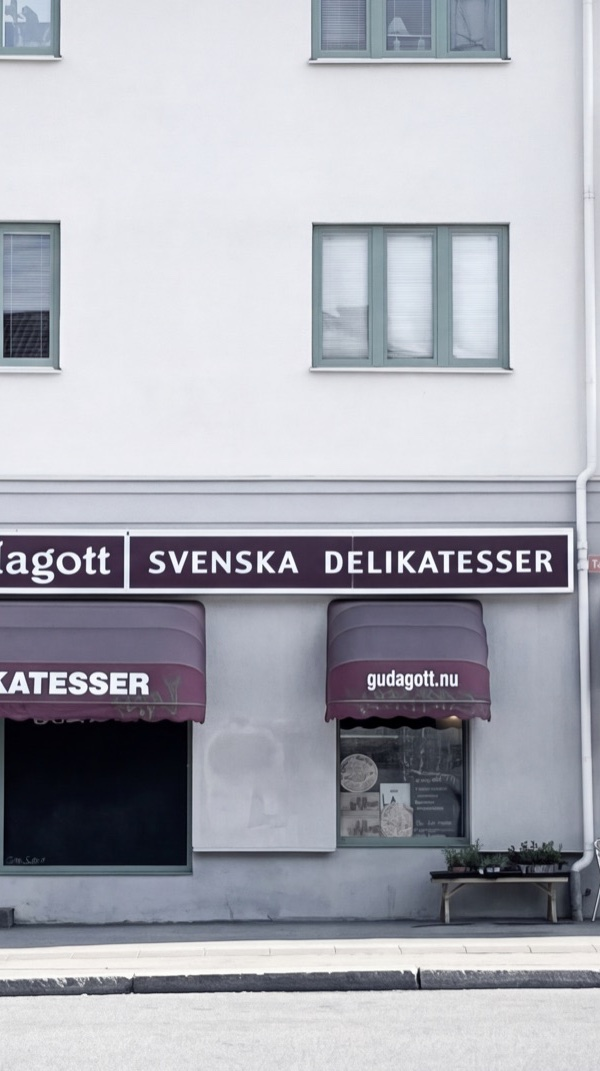
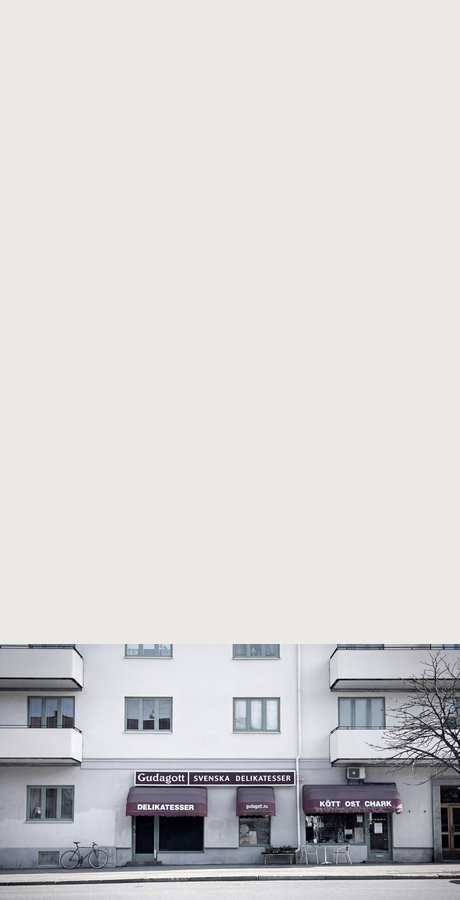
fix: portrait mobile hero (460x900) shows full Gudagott sign at correct width

diff --git a/app/globals.css b/app/globals.css
@@ -514,9 +514,9 @@ body {
     height: 100svh !important;
   }
   .hero-bg {
-    background-image: url('/exterior-new.jpg') !important;
+    background-image: url('/exterior-mobile.jpg') !important;
     background-size: cover !important;
-    background-position: 48% center !important; /* full skylt synlig */
+    background-position: center 65% !important; /* skylt + markiser i fokus */
   }
 
   /* ── Om Oss: horisontellt svep-bildspel ── */

diff --git a/scripts/make_mobile_hero.py b/scripts/make_mobile_hero.py
@@ -1,0 +1,45 @@
+#!/usr/bin/env python3
+"""
+Skapar exterior-mobile.jpg:
+- Visar hela byggnadsbredden (full sign synlig)
+- Portrait-format (460×900px) för mobil viewport
+- Byggnadsvägg-färg (#e8e6e1) som bakgrund
+"""
+from PIL import Image
+
+SRC = "public/exterior-new.jpg"
+DST = "public/exterior-mobile.jpg"
+TARGET_W = 460    # lite bredare än 390px för säkerhetsmarginal
+TARGET_H = 900    # portrait, täcker 100svh på de flesta mobiler
+BG_COLOR = (235, 233, 229)  # byggnadens ljusgrå/krämvit väggfärg
+
+img = Image.open(SRC)
+orig_w, orig_h = img.size
+print(f"Original: {orig_w}x{orig_h}")
+
+# Skala hela bilden till TARGET_W bredd (visar HELA skyltens bredd)
+scale = TARGET_W / orig_w
+new_w = TARGET_W
+new_h = int(orig_h * scale)
+print(f"Skalad: {new_w}x{new_h}")
+
+resized = img.resize((new_w, new_h), Image.LANCZOS)
+
+# Skapa portrait-canvas med väggfärg
+canvas = Image.new("RGB", (TARGET_W, TARGET_H), BG_COLOR)
+
+# Placera byggnaden i nedre 2/3 del av canvasen (skylt och markiser syns centralt)
+paste_y = TARGET_H - new_h  # justera nedre kant mot botten
+if paste_y < 0:
+    # Bild är taller än canvas — croppa från nedre delen (inkl. gatan)
+    crop_top = (-paste_y) // 3   # ta lite från toppen (himmel)
+    resized = resized.crop((0, crop_top, new_w, new_h))
+    paste_y = TARGET_H - (new_h - crop_top)
+
+canvas.paste(resized, (0, max(0, paste_y)))
+canvas.save(DST, "JPEG", quality=85, optimize=True)
+
+from pathlib import Path
+size_kb = Path(DST).stat().st_size // 1024
+print(f"Sparad: {DST} ({TARGET_W}x{TARGET_H}, {size_kb}KB)")
+print("Hela byggnadsbredden synlig — full skylt på mobil!")
